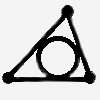
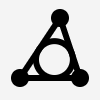
Fix Incircle Bugs
- Fix bug where incircles don't update.
- Fix bug where the intersection points of a segment and an incircle glitch because of double values losing precision (i.e. not being exactly 0)
- Update incircle icon.
- Fix incircle building in Shape.buildShape

Changed region(s): [[0.0, 0.03, 0.96, 0.87]]

diff --git a/AsyPad/src/asypad/shapes/Circle.java b/AsyPad/src/asypad/shapes/Circle.java
@@ -136,6 +136,15 @@ public class Circle extends Shape
 			y = Utility.circumcenterY(p1, p2, p3);
 			radius = Utility.dist(x, y, p1.getX(), p1.getY());
 		}
+		else if(type == CIRCLE_TYPE.INCIRCLE)
+		{
+			Point p1 = (Point) dependencies.get(0);
+			Point p2 = (Point) dependencies.get(1);
+			Point p3 = (Point) dependencies.get(2);
+			x = Utility.incenterX(p1, p2, p3);
+			y = Utility.incenterY(p1, p2, p3);
+			radius = Utility.distToL(p1.getX(), p1.getY(), p2.getX(), p2.getY(), x, y);
+		}
 		circle.setCenterX(x);
 		circle.setCenterY(y);
 		circle.setRadius(radius);
@@ -174,7 +183,7 @@ public class Circle extends Shape
 			s = "CIRCLE: type = " + type + " dependencies: " + dependencies.get(0).getName()
 					+ ", " + dependencies.get(1).getName();
 		}
-		else if(type == CIRCLE_TYPE.CIRCUMCIRCLE)
+		else if(type == CIRCLE_TYPE.CIRCUMCIRCLE || type == CIRCLE_TYPE.INCIRCLE)
 		{
 			s = "CIRCLE: type = " + type + " dependencies: " + dependencies.get(0).getName()
 					+ ", " + dependencies.get(1).getName() + ", " + dependencies.get(2).getName();

diff --git a/AsyPad/src/asypad/shapes/Shape.java b/AsyPad/src/asypad/shapes/Shape.java
@@ -353,10 +353,10 @@ public abstract class Shape
 				Point dependency3 = (Point) target.findShapeByName(d3Name);
 				s = new Circle(dependency1, dependency2, dependency3, 1);
 			}
-			else if(args.substring(15, 27).equals("INCIRCLE"))
+			else if(args.substring(15, 23).equals("INCIRCLE"))
 			{
 				int d1 = 0, d2 = 0, d3 = 0;
-				for(int i = 27; i < args.length(); i++)
+				for(int i = 23; i < args.length(); i++)
 				{
 					if(args.charAt(i) == ':')
 					{
@@ -568,7 +568,7 @@ public abstract class Shape
 	public abstract javafx.scene.shape.Shape getObject();
 	
 	/**
-	 * String representation of the shape. Should only be used for debugging purposes.
+	 * String representation of the shape. Is used in .apad file i/o.
 	 * @return string representation
 	 */
 	public abstract String toString();

diff --git a/AsyPad/src/asypad/shapes/Utility.java b/AsyPad/src/asypad/shapes/Utility.java
@@ -189,8 +189,8 @@ public class Utility
 		double D = x1*y2-x2*y1;
 		double r = c.getRadius();
 		double discriminant = r*r*dr*dr-D*D;
-		if(discriminant < 0) return Double.POSITIVE_INFINITY;
-		else if(discriminant == 0)
+		if(discriminant < -0.0001) return Double.POSITIVE_INFINITY;
+		else if(discriminant < 0.0001)
 		{
 			return D*dy/(dr*dr)+c.getCenterX();
 		}
@@ -244,8 +244,8 @@ public class Utility
 		double D = x1*y2-x2*y1;
 		double r = c.getRadius();
 		double discriminant = r*r*dr*dr-D*D;
-		if(discriminant < 0) return Double.POSITIVE_INFINITY;
-		else if(discriminant == 0)
+		if(discriminant < -0.0001) return Double.POSITIVE_INFINITY;
+		else if(discriminant < 0.0001)
 		{
 			return -D*dx/(dr*dr)+c.getCenterY();
 		}
